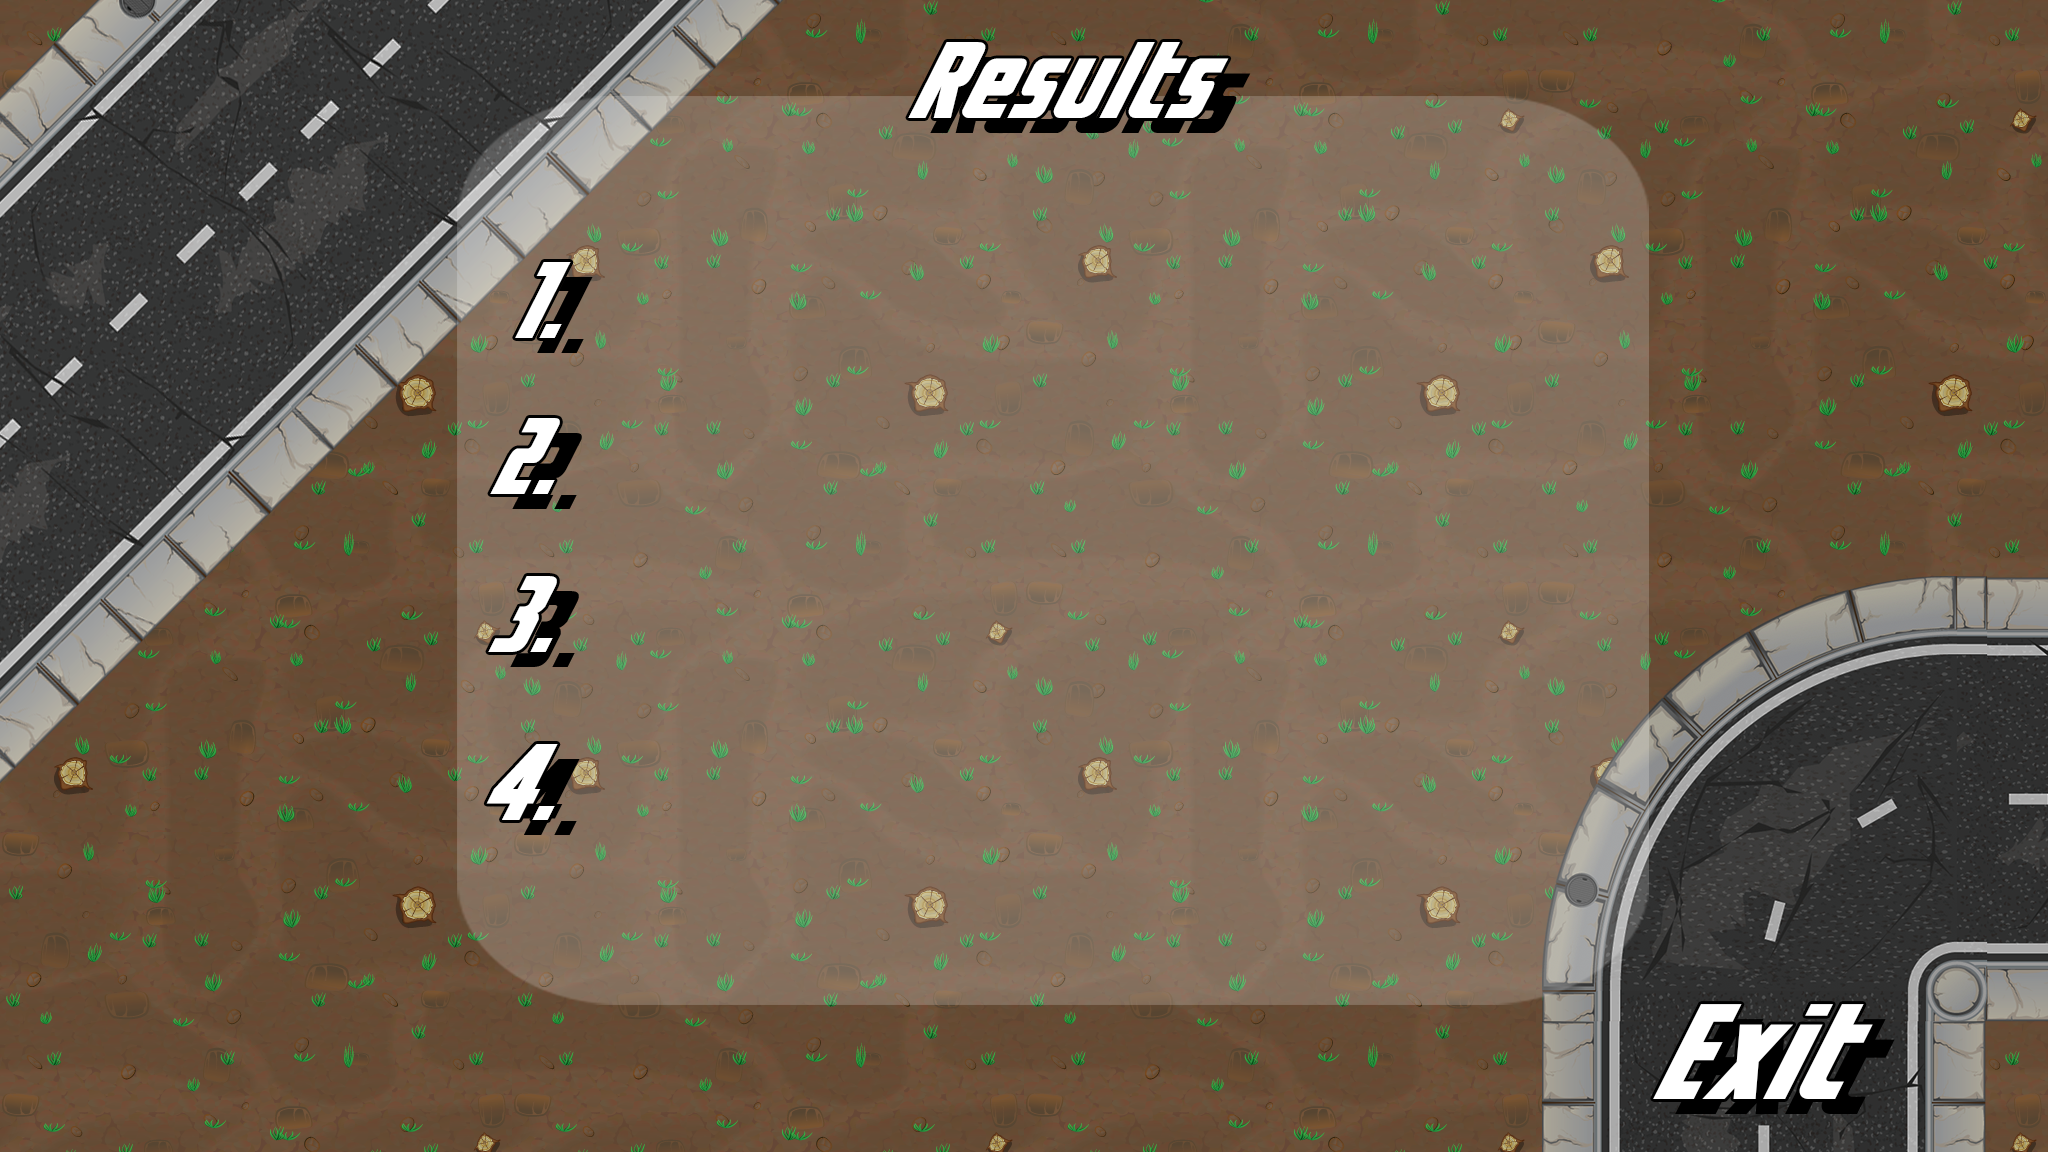
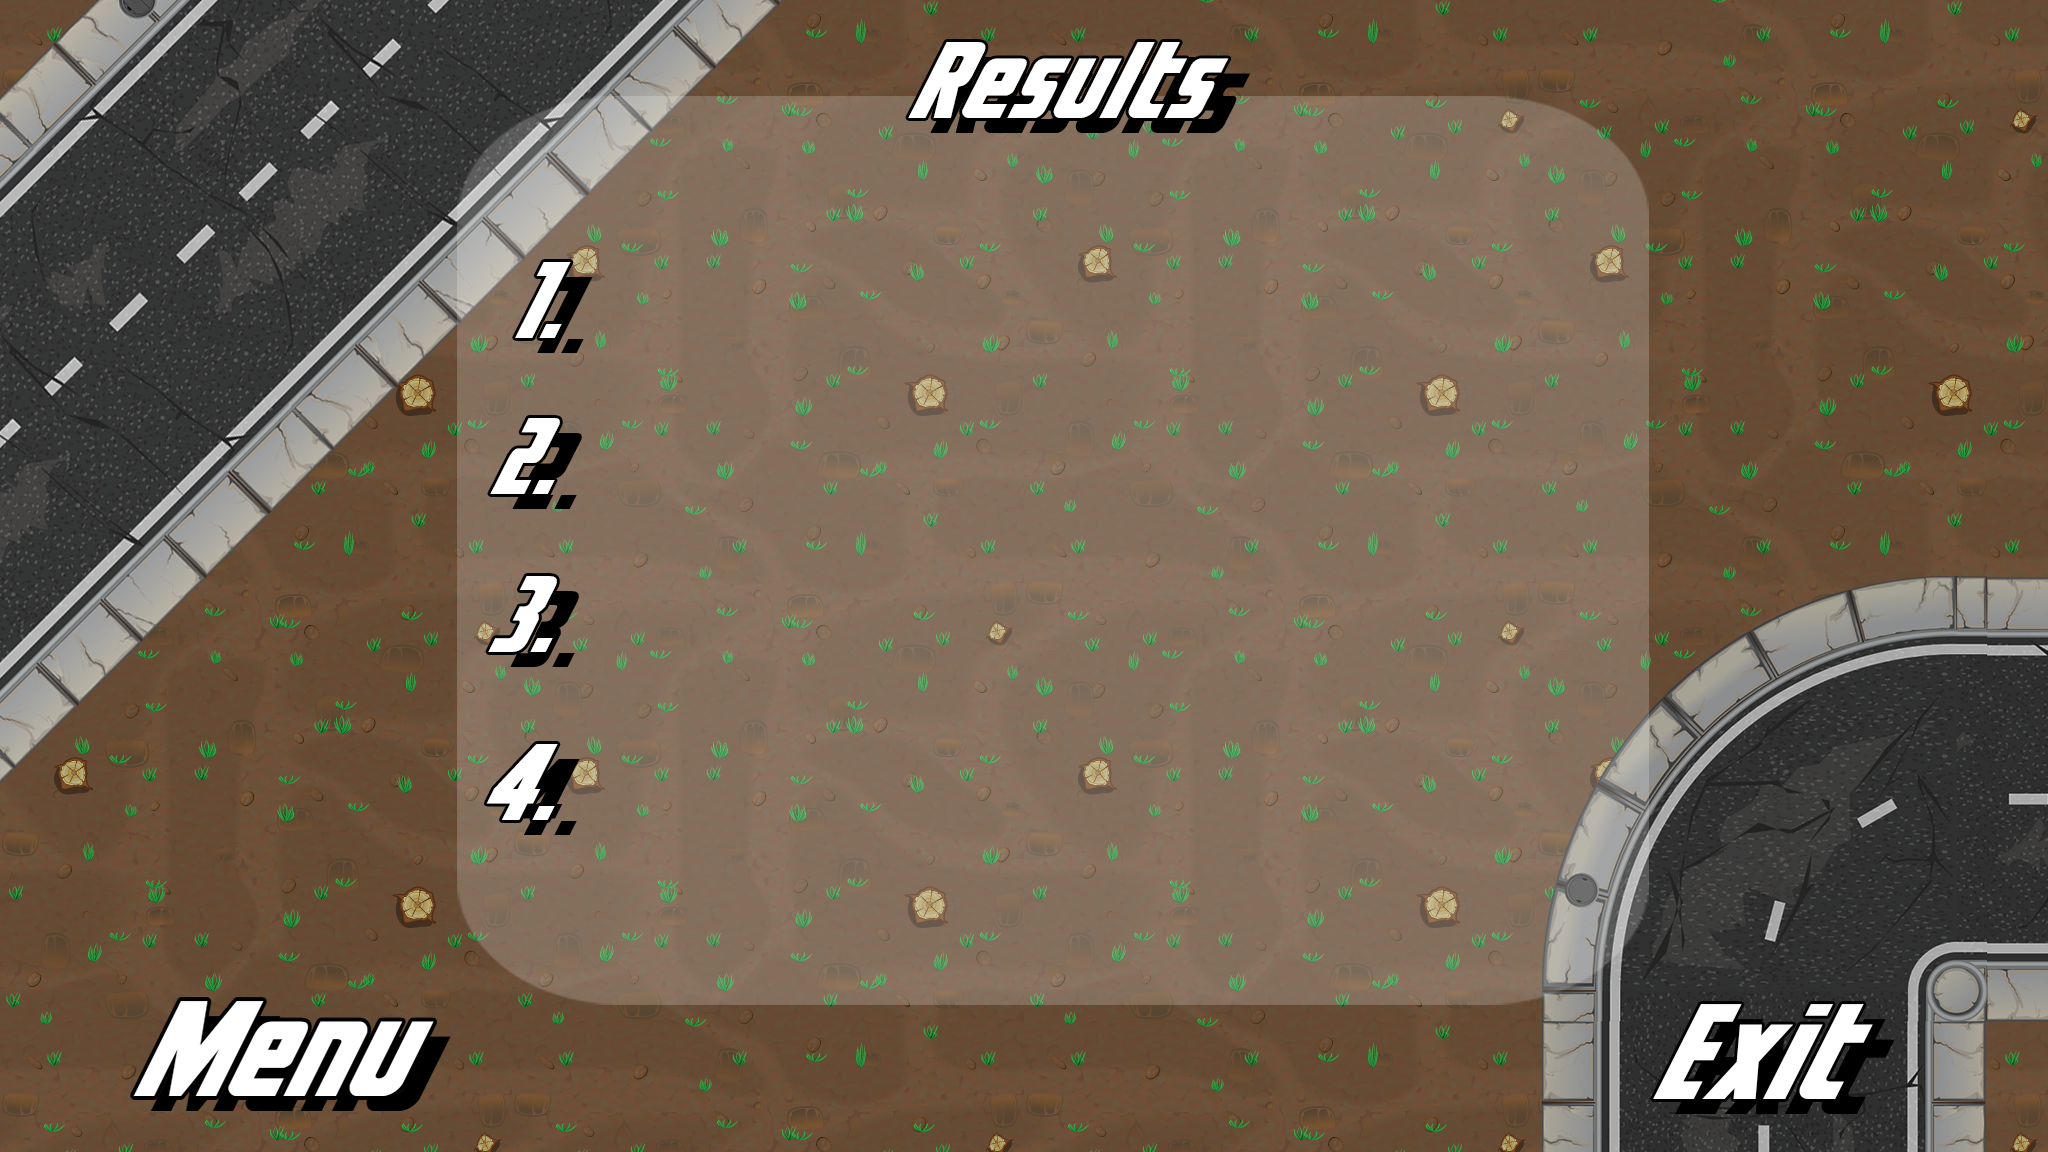
cendscene -> menuscene (falta server)

Changed region(s): [[0.0625, 0.8438, 0.2188, 0.9688]]

diff --git a/src/Client/EndScene.cpp b/src/Client/EndScene.cpp
@@ -9,7 +9,8 @@ EndScene::EndScene(SdlWindow& window, SafeQueue<std::shared_ptr<EndSnapshot>>& e
 	backgroundEnd(backgroundEndTex),
 	creator(window),
 	_done(false),
-	fullscreen(true) {
+	fullscreen(true),
+	nextScene(SCENE_END) {
 		carViews.insert({TYPE_CAR_RED, creator.create(TYPE_CAR_RED, 0, 0, 270)});
     	carViews.insert({TYPE_CAR_BLUE, creator.create(TYPE_CAR_BLUE, 0, 0, 270)});
    		carViews.insert({TYPE_CAR_YELLOW, creator.create(TYPE_CAR_YELLOW, 0, 0, 270)});
@@ -50,6 +51,9 @@ Scene EndScene::handle() {
 			SDL_GetMouseState(&x, &y);
 			if (insideQuitButton(x, y)) {
 				_done = true;
+
+			} else if (insideMenuButton(x, y)) {
+				nextScene = SCENE_MENU;
 			}
 
 		} else if (e.type == SDL_KEYDOWN) {
@@ -65,7 +69,7 @@ Scene EndScene::handle() {
 			}
 		}
 	}
-	return SCENE_END;
+	return nextScene;
 }
 
 void EndScene::drawCars() {
@@ -78,5 +82,10 @@ void EndScene::drawCars() {
 
 bool EndScene::insideQuitButton(int x, int y) {
 	Area playBtn(0.75*xScreen, 0.75*yScreen, 0.25*xScreen, 0.2*yScreen);
+	return playBtn.isInside(x, y);
+}
+
+bool EndScene::insideMenuButton(int x, int y) {
+	Area playBtn(0.15*xScreen, 0.75*yScreen, 0.25*xScreen, 0.2*yScreen);
 	return playBtn.isInside(x, y);
 }

diff --git a/src/Client/EndScene.h b/src/Client/EndScene.h
@@ -26,6 +26,7 @@ private:
 	SDL_Event e;
 	bool _done;
 	bool fullscreen;
+	Scene nextScene;
 	int xScreen, yScreen;
 public:
 	EndScene(SdlWindow& window, SafeQueue<std::shared_ptr<EndSnapshot>>& endRecvQueue);
@@ -36,6 +37,7 @@ public:
 	virtual ~EndScene() {}
 private:
 	bool insideQuitButton(int x, int y);
+	bool insideMenuButton(int x, int y);
 	void drawCars();
 };
 
